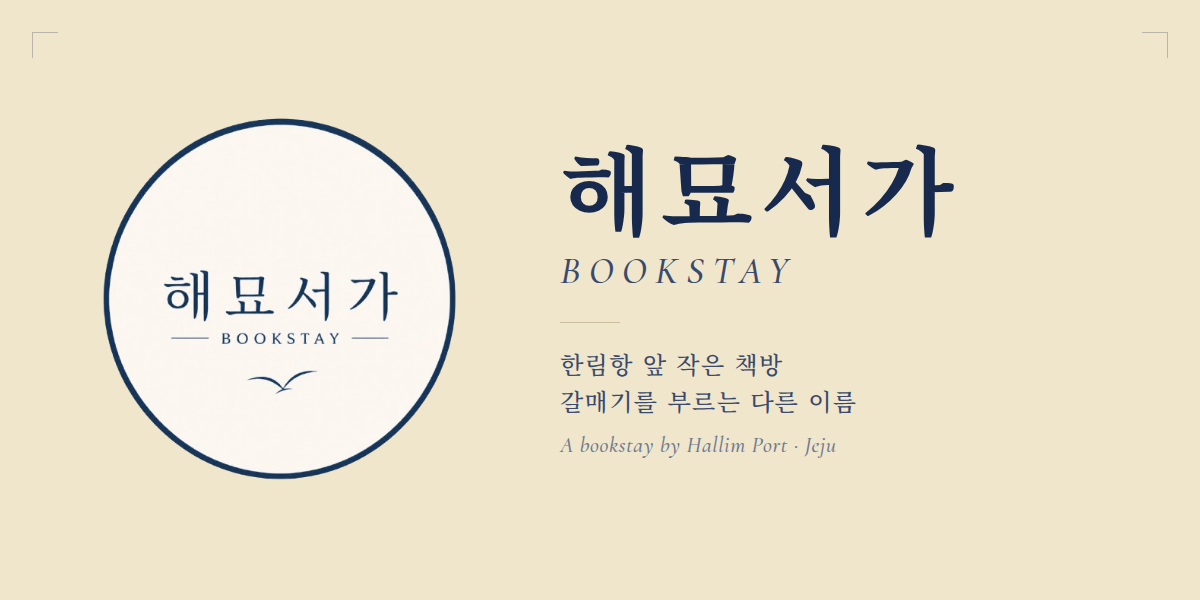
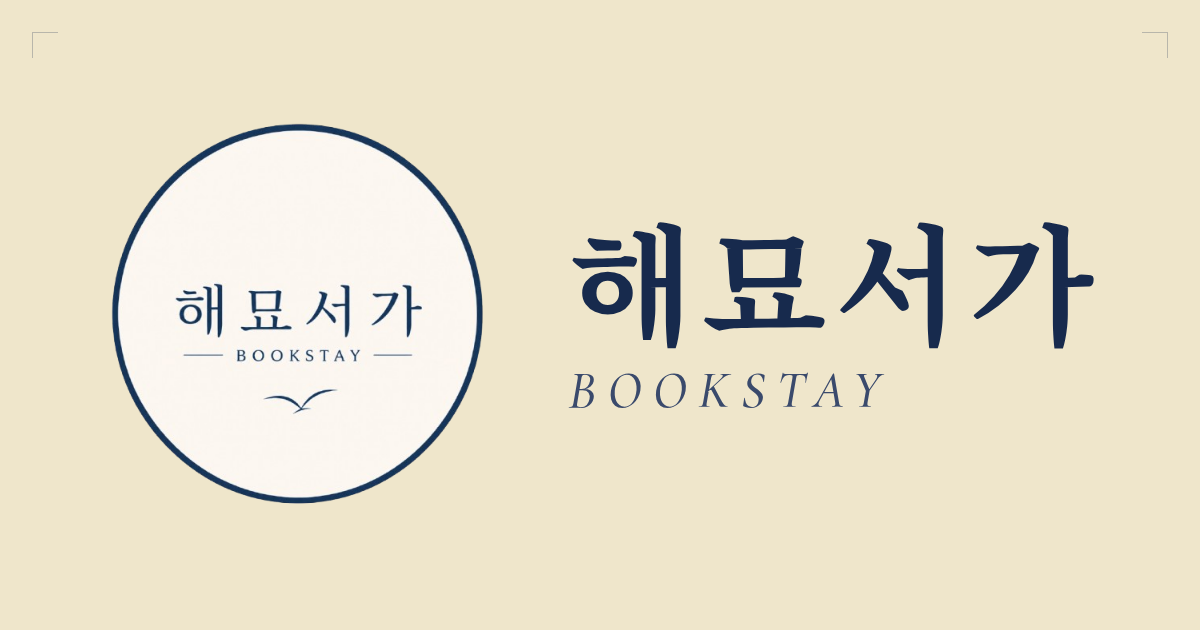
모바일 디자인 조정, 소셜 이미지 단순화

diff --git a/index.html b/index.html
@@ -15,7 +15,7 @@
 <meta property="og:url" content="https://haemyo.vercel.app/">
 <meta property="og:image" content="https://haemyo.vercel.app/assets/og-image.png">
 <meta property="og:image:width" content="1200">
-<meta property="og:image:height" content="600">
+<meta property="og:image:height" content="630">
 <meta property="og:type" content="website">
 <meta property="og:locale" content="ko_KR">
 <meta property="og:site_name" content="해묘서가">
@@ -292,11 +292,11 @@
         </h3>
         <ul class="place-list toggle">
           <li lang="ko" data-place="제주 한림 달리책방"><span class="place-text"><strong>달리책방</strong> · 한림의 독립서점 <span class="meta">한림읍 월계로 18 1층</span></span></li>
-          <li lang="ko" data-place="제주 한림 파출소 옆 책방"><span class="place-text"><strong>파출소 옆 책방</strong> · 한림읍 중심의 무인 동네서점</span></li>
+          <li lang="ko" data-place="제주 한림 파출소 옆 책방"><span class="place-text"><strong>파출소 옆 책방</strong> · 다정한 동네책방</span></li>
           <li lang="ko" data-place="제주 한림공원"><span class="place-text"><strong>한림공원</strong> · 아열대 식물원, 협재굴·쌍용굴 <span class="meta">한림로 300</span></span></li>
           <li lang="ko" data-place="제주 비양도"><span class="place-text"><strong>비양도</strong> · 한림항에서 배로 15분, 한 바퀴 두 시간 산책길</span></li>
           <li lang="en" data-place="제주 한림 달리책방"><span class="place-text"><strong>Dali Bookshop</strong> · An independent bookshop in Hallim <span class="meta">[address placeholder]</span></span></li>
-          <li lang="en" data-place="제주 한림 파출소 옆 책방"><span class="place-text"><strong>Bookshop next to the police box</strong> · An unmanned neighborhood bookshop in Hallim</span></li>
+          <li lang="en" data-place="제주 한림 파출소 옆 책방"><span class="place-text"><strong>Bookshop next to the police box</strong> · A neighborhood bookshop in Hallim</span></li>
           <li lang="en" data-place="제주 한림공원"><span class="place-text"><strong>Hallim Park</strong> · Subtropical gardens and the Hyeopjae &amp; Ssangyong caves</span></li>
           <li lang="en" data-place="제주 비양도"><span class="place-text"><strong>Biyang-do</strong> · 15-minute ferry from Hallim Port — a two-hour walk around the island</span></li>
         </ul>
@@ -311,11 +311,11 @@
           <li lang="ko" data-place="협재해수욕장"><span class="place-text"><strong>협재해수욕장</strong> · 에메랄드빛 모래사장 <span class="meta">차로 10분</span></span></li>
           <li lang="ko" data-place="금능해수욕장"><span class="place-text"><strong>금능해수욕장</strong> · 협재 옆, 한적한 분위기</span></li>
           <li lang="ko" data-place="곽지해수욕장"><span class="place-text"><strong>곽지해수욕장</strong> · 노을 명소</span></li>
-          <li lang="ko" data-place="한림항 방파제"><span class="place-text"><strong>한림항 방파제</strong> · 도보권, 아침 산책 추천</span></li>
+          <li lang="ko" data-place="한림항 도선대합실"><span class="place-text"><strong>한림항 방파제</strong> · 도보권, 아침 산책 추천</span></li>
           <li lang="en" data-place="협재해수욕장"><span class="place-text"><strong>Hyeopjae Beach</strong> · Emerald shallows and white sand <span class="meta">10 min by car</span></span></li>
           <li lang="en" data-place="금능해수욕장"><span class="place-text"><strong>Geumneung Beach</strong> · Quieter neighbor of Hyeopjae</span></li>
           <li lang="en" data-place="곽지해수욕장"><span class="place-text"><strong>Gwakji Beach</strong> · A favorite spot for sunsets</span></li>
-          <li lang="en" data-place="한림항 방파제"><span class="place-text"><strong>Hallim Port breakwater</strong> · Within walking distance — recommended at sunrise</span></li>
+          <li lang="en" data-place="한림항 도선대합실"><span class="place-text"><strong>Hallim Port breakwater</strong> · Within walking distance — recommended at sunrise</span></li>
         </ul>
       </div>
     </div>
@@ -381,7 +381,7 @@
       </p>
       <p lang="en">
         Host · <a href="tel:+821096765402">010-9676-5402</a><br>
-        Check-out · <em>[time placeholder]</em><br>
+        Check-out · <em>11:30 AM</em><br>
         Reach out any time.
       </p>
     </div>

diff --git a/styles.css b/styles.css
@@ -26,7 +26,7 @@
 
 * { box-sizing: border-box; }
 
-html, body { margin: 0; padding: 0; }
+html, body { margin: 0; padding: 0; overflow-x: hidden; }
 
 body {
   background: var(--bg);
@@ -117,6 +117,15 @@ html[data-lang="en"] .lang-opt[data-lang-ko] { display: none; }
   .topbar-inner { gap: 0.5rem; padding: 0.6rem 1rem; }
   .brand-ko { font-size: 0.95rem; }
 }
+@media (max-width: 480px) {
+  .anchor-nav { gap: 0.55rem; font-size: 0.76rem; }
+  .topbar-inner { gap: 0.4rem; padding: 0.55rem 0.8rem; }
+  .lang-toggle { padding: 0.3rem 0.5rem; font-size: 0.7rem; letter-spacing: 0.04em; }
+  .brand-en { font-size: 0.62rem; letter-spacing: 0.14em; }
+}
+@media (max-width: 480px) {
+  .anchor-nav { display: none; }
+}
 
 /* ── Main layout ────────────────────────────────────────── */
 main {
@@ -189,7 +198,9 @@ main {
   margin: 0 0 1.4rem;
   padding-bottom: 1.2rem;
   border-bottom: 1px solid var(--rule-soft);
-  display: inline-block;
+  display: block;
+  text-align: center;
+  word-break: keep-all;
 }
 .seagull {
   display: block;
@@ -251,6 +262,11 @@ main {
   .card-grid { grid-template-columns: 1fr 1fr; gap: 2.5rem; }
 }
 .card-block + .card-block { margin-top: 0; }
+.card > .card-block + .card-block {
+  margin-top: 2.5rem;
+  padding-top: 2rem;
+  border-top: 1px solid var(--rule-soft);
+}
 .card-block.highlight {
   background: var(--bg-soft);
   border-radius: var(--radius);
@@ -424,13 +440,15 @@ main {
 .map-figure.map-missing {
   aspect-ratio: 4 / 3;
   display: flex;
+  flex-direction: column;
   align-items: center;
   justify-content: center;
   position: relative;
 }
 .map-figure.map-missing img { display: none; }
+.map-figure.map-missing figcaption { display: none; }
 .map-figure.map-missing::before {
-  content: '약도 이미지 자리 · assets/map-area.png 또는 assets/map-detail.png';
+  content: '약도 이미지 자리 · assets/map-detail.png';
   font-family: var(--sans);
   font-size: 0.78rem;
   color: var(--ink-muted);
@@ -548,6 +566,7 @@ main {
   border-radius: 2px;
   display: inline-block;
   align-self: start;
+  justify-self: start;
 }
 .wifi-qr img { display: block; }
 

diff --git a/og.html b/og.html
@@ -8,56 +8,37 @@
 <link href="https://fonts.googleapis.com/css2?family=Cormorant+Garamond:ital,wght@1,500&family=Noto+Serif+KR:wght@500;700&display=swap" rel="stylesheet">
 <style>
 * { box-sizing: border-box; margin: 0; padding: 0; }
-html, body { width: 1200px; height: 600px; overflow: hidden; }
+html, body { width: 1200px; height: 630px; overflow: hidden; }
 body {
   background: #efe6cb;
   display: flex;
   align-items: center;
-  padding: 0 90px;
-  gap: 90px;
+  justify-content: center;
+  padding: 0 80px;
+  gap: 70px;
   font-family: 'Noto Serif KR', serif;
   color: #172a4d;
   position: relative;
 }
-.logo { width: 380px; height: 380px; flex-shrink: 0; }
+.logo { width: 400px; height: 400px; flex-shrink: 0; }
 .logo img { width: 100%; height: 100%; display: block; }
 .text { display: flex; flex-direction: column; }
 .title-ko {
-  font-size: 96px;
+  font-size: 130px;
   font-weight: 700;
-  letter-spacing: 0.08em;
+  letter-spacing: 0.06em;
   line-height: 1;
-  margin-bottom: 14px;
+  margin-bottom: 22px;
+  white-space: nowrap;
 }
 .title-en {
   font-family: 'Cormorant Garamond', serif;
   font-style: italic;
-  font-size: 38px;
+  font-size: 52px;
   color: #3a4a6c;
   letter-spacing: 0.22em;
-}
-.divider {
-  width: 60px;
-  height: 1px;
-  background: #c9bd9d;
-  margin: 28px 0 22px;
-}
-.tagline-ko {
-  font-size: 24px;
-  letter-spacing: 0.06em;
-  color: #3a4a6c;
-  font-weight: 400;
-  line-height: 1.55;
-  max-width: 520px;
-  margin-bottom: 10px;
-}
-.tagline-en {
-  font-family: 'Cormorant Garamond', serif;
-  font-style: italic;
-  font-size: 22px;
-  color: #6e7891;
-  letter-spacing: 0.03em;
-  line-height: 1.5;
+  line-height: 1;
+  white-space: nowrap;
 }
 .corner {
   position: absolute;
@@ -81,9 +62,6 @@ body {
 <div class="text">
   <div class="title-ko">해묘서가</div>
   <div class="title-en">BOOKSTAY</div>
-  <div class="divider"></div>
-  <div class="tagline-ko">한림항 앞 작은 책방<br>갈매기를 부르는 다른 이름</div>
-  <div class="tagline-en">A bookstay by Hallim Port · Jeju</div>
 </div>
 </body>
 </html>
